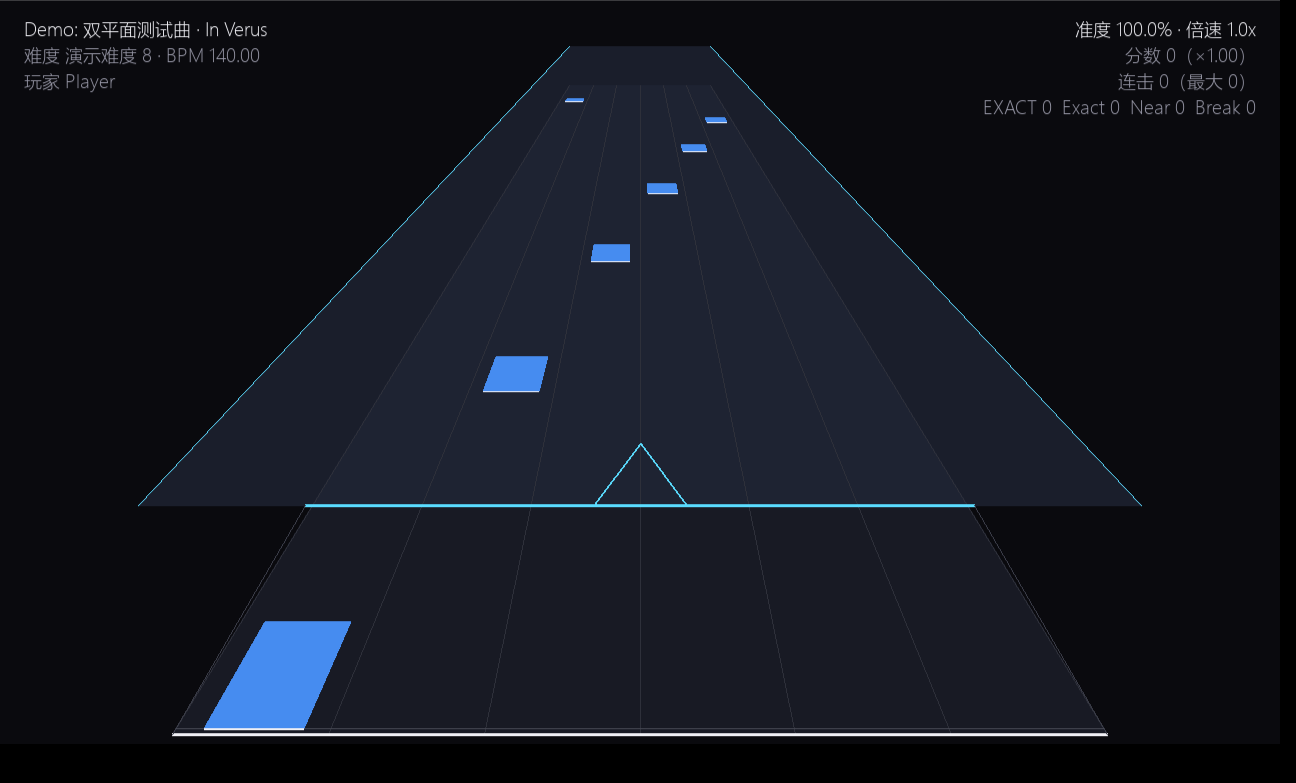
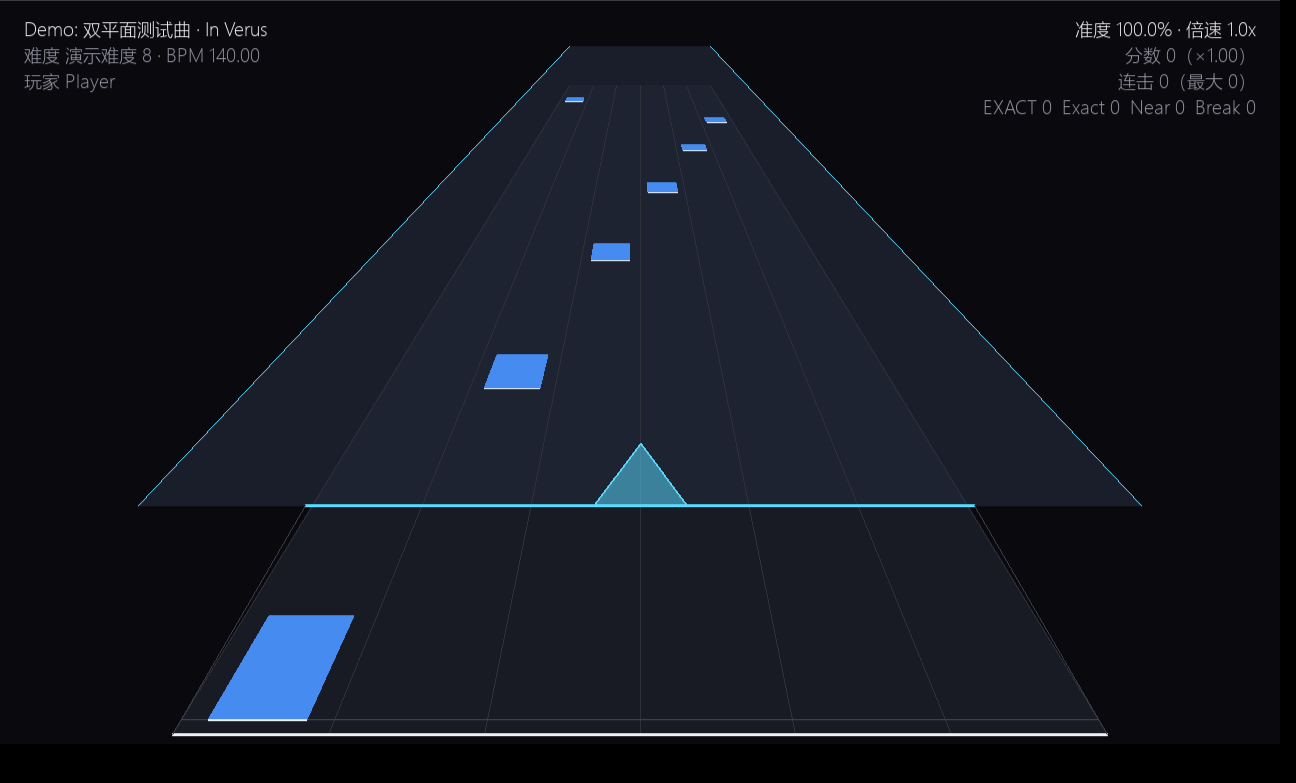
feat(player): 鼠标指针规则 - 无界永远半透明实心；关闭时界内实心、出界则判定位置实心 + 实际位置只画边线

diff --git a/src/rhythm_editor/game/app.py b/src/rhythm_editor/game/app.py
@@ -166,6 +166,7 @@ class PlayerApp:
         self.popups: List[Tuple[str, str, float]] = []   # (等级, 文字, 剩余秒数)
         self.pressed_lanes = set()
         self.mouse_norm = 0.5
+        self.mouse_raw = 0.5               # 鼠标实际位置（关闭无界鼠标时可能出界）
         self.message = ""
         self.status_hint = ""
         self.settings_row = 0
@@ -1220,6 +1221,7 @@ class PlayerApp:
         )
         raw = (mx - left) / max(1.0, right - left)
         value = 0.5 + (raw - 0.5) * self.settings.mouse_sensitivity
+        self.mouse_raw = value            # 实际位置（可能出界，用于画“边线”指针）
         if not self.settings.unbounded_mouse:
             value = min(1.0, max(0.0, value))
         return value
@@ -1738,18 +1740,39 @@ class PlayerApp:
                 (255, 60, 50),
             )
 
-    def _draw_mouse_marker(self) -> None:
-        """鼠标判定线后方的三角形标识：**躺在鼠标平面内**（矮胖、只画边线）。"""
-        x = MOUSE_LEFT + self.mouse_norm * MOUSE_LEGAL_WIDTH
+    def _mouse_marker_points(self, norm_x: float):
+        """指针三角形的三个点（躺在鼠标平面内、矮胖）。"""
+        x = MOUSE_LEFT + norm_x * MOUSE_LEGAL_WIDTH
         length = 0.26                      # 沿 z 的长度（矮）
         half_w = 0.07                      # 横向半宽（胖）
-        tip = self._proj(x, MOUSE_PLANE_HEIGHT, length)
-        left = self._proj(x - half_w, MOUSE_PLANE_HEIGHT, 0.0)
-        right = self._proj(x + half_w, MOUSE_PLANE_HEIGHT, 0.0)
-        pygame.draw.polygon(
-            self.screen, MOUSE_TINT,
-            [(tip[0], tip[1]), (left[0], left[1]), (right[0], right[1])], 2,
+        return (
+            self._proj(x, MOUSE_PLANE_HEIGHT, length),
+            self._proj(x - half_w, MOUSE_PLANE_HEIGHT, 0.0),
+            self._proj(x + half_w, MOUSE_PLANE_HEIGHT, 0.0),
         )
+
+    def _draw_marker_shape(self, points, filled: bool) -> None:
+        """画一个指针三角形：``filled`` 时是**半透明实心**，否则只画边线。"""
+        if filled:
+            self._alpha_quad(list(points), MOUSE_TINT, 130)
+        pygame.draw.polygon(
+            self.screen, MOUSE_TINT, [(p[0], p[1]) for p in points], 2
+        )
+
+    def _draw_mouse_marker(self) -> None:
+        """鼠标指针画法。
+
+        * 开启**无界鼠标**：永远按实际位置画半透明实心；
+        * 关闭且鼠标在合法区内：判定位置 = 实际位置，画半透明实心；
+        * 关闭且鼠标出界：**判定位置**（夹在边界上）画实心，
+          **实际位置**只画边线，两者都能看到。
+        """
+        inside = 0.0 <= self.mouse_raw <= 1.0
+        # 判定位置永远是半透明实心
+        self._draw_marker_shape(self._mouse_marker_points(self.mouse_norm), filled=True)
+        if not self.settings.unbounded_mouse and not inside:
+            # 出界时把**实际位置**也用边线标出来
+            self._draw_marker_shape(self._mouse_marker_points(self.mouse_raw), filled=False)
 
     def _draw_popups(self) -> None:
         """判定飘字：在**被判定的物件处**向上飘并淡出。"""

diff --git a/tests/test_game_app.py b/tests/test_game_app.py
@@ -739,6 +739,58 @@ class PlayerAppSmokeTests(unittest.TestCase):
             app._draw()                       # 换模式后还能画
         self.assertEqual(seen, ["borderless", "fullscreen", "windowed", "borderless"])
 
+    def test_mouse_marker_fill_rules(self) -> None:
+        """无界：永远实心；关闭：界内实心、出界时判定位置实心 + 实际位置只画边线。"""
+        from rhythm_editor.game.app import MOUSE_LEGAL_WIDTH, MOUSE_LEFT
+
+        app = self.app
+        app._enter_loading()
+        app._start_play()
+        fills = []
+        xs = []
+        original_alpha, original_proj = app._alpha_quad, app._proj
+        app._alpha_quad = lambda points, color, alpha: fills.append(alpha)
+
+        def spy(x, y, z):
+            xs.append(x)
+            return original_proj(x, y, z)
+
+        app._proj = spy
+
+        def norm_of(world_x: float) -> float:
+            return (world_x - MOUSE_LEFT) / MOUSE_LEGAL_WIDTH
+
+        try:
+            def draw_and_reset():
+                fills.clear()
+                xs.clear()
+                app._draw_mouse_marker()
+                return [norm_of(x) for x in xs]
+
+            # 1) 开启无界鼠标：出界的实际位置也画实心
+            app.settings.unbounded_mouse = True
+            app.mouse_norm, app.mouse_raw = 1.35, 1.35
+            drawn = draw_and_reset()
+            self.assertEqual(len(fills), 1, "无界鼠标永远实心")
+            self.assertAlmostEqual(drawn[0], 1.35, delta=1e-6, msg="指针尖在鼠标实际位置")
+
+            # 2) 关闭无界 + 界内：只有判定位置（=实际位置）画实心
+            app.settings.unbounded_mouse = False
+            app.mouse_norm, app.mouse_raw = 0.4, 0.4
+            drawn = draw_and_reset()
+            self.assertEqual(len(fills), 1)
+            self.assertAlmostEqual(drawn[0], 0.4, delta=1e-6)
+
+            # 3) 关闭无界 + 出界：判定位置（夹到 1.0）实心，实际位置（1.3）只画边线
+            app.mouse_norm, app.mouse_raw = 1.0, 1.3
+            drawn = draw_and_reset()
+            self.assertEqual(len(fills), 1, "只有判定位置是实心")
+            self.assertEqual(len(drawn), 6, "判定位置 + 实际位置各一个三角形")
+            self.assertAlmostEqual(drawn[0], 1.0, delta=1e-6, msg="判定位置夹在边界上")
+            self.assertAlmostEqual(drawn[3], 1.3, delta=1e-6, msg="实际位置也画出来")
+        finally:
+            app._alpha_quad, app._proj = original_alpha, original_proj
+
 
 if __name__ == "__main__":
     unittest.main()

diff --git a/docs/VERIFICATION.md b/docs/VERIFICATION.md
@@ -113,7 +113,7 @@ python tools/check_audio.py
 
 | 项目 | 命令 | 结果 |
 | --- | --- | --- |
-| 单元测试（含 Tk 画布冒烟测试、应用级测试与游玩器测试） | `python -m unittest discover -s tests -t .` | Ran 324 tests — **OK** |
+| 单元测试（含 Tk 画布冒烟测试、应用级测试与游玩器测试） | `python -m unittest discover -s tests -t .` | Ran 325 tests — **OK** |
 | 需求验收清单 | `python tools/acceptance.py` | 18 项全部 `[OK ]`，结论：全部通过（含游玩器 4 项） |
 | 音频后端 | `python tools/check_audio.py` | 9 项全部 `[OK ]`（pygame.mixer 真实播放，延迟补偿正确） |
 | 示例谱面生成 | `python run_editor.py --make-demo` | 生成 `charts/demo/demo.json`（6K 32 / 区域 3 / 滑键 6 / 点击按键 4 / 4 个速度组） |
@@ -212,7 +212,7 @@ python tools/check_audio.py
 | `tests/test_game_judge.py`（26 条） | 游玩器判定：EXACT/Exact/Near/Break 窗口、空敲无惩罚、一次按键只判一个、**输入类型必须匹配（6K 键只判 6K、鼠标点击只判鼠标点击按键）**、滑键吸附最好等级、空域半拍区间、长按“抬起事件 + 末 50ms 宽限（跨区间）”、多轨长按“所有行同时抬起才算抬起”、准度与分数公式、分数 × 倍速^1.5、连击与最大连击 |
 | `tests/test_game_scene.py`（9 条） | 游玩器 3D 布局：1 单位 = 鼠标合法区宽 = 6K 中间四轨；鼠标平面高 0.4；两条判定线位置；近大远小；起点在屏幕上方；**游玩区铺满窗口（竖直 ≥85%、水平居中、换尺寸重算）** |
 | `tests/test_game_settings.py`（9 条） | 游玩器设置：默认键位、范围夹取、**流速 ↔ 可视毫秒（1500/n）与老 `scroll_ms` 迁移**、键位补齐、全局读写与损坏回退、最近打开列表去重与上限、渲染后端设置（含非法值回退） |
-| `tests/test_game_app.py`（32 条） | 游玩器 GUI 冒烟（headless）：主界面 → 加载 → 游玩 → 结算、鼠标映射、设置全局保存、轨道高亮与判定飘字、音量与暂停、谱面列表元数据与最近打开、渲染后端切换与回退、倍速（含上限 3x 与分数 ×3^1.5）、charts/ “每个含 json 的文件夹算一张谱面”、没有谱面时也能进设置、打开其他路径的 JSON、判定时刻过去的物件不再绘制、首拍 1.5 秒引导且音乐同步、文本输入走 TEXTINPUT / 键位按键捕获、鼠标可操作主界面 / 设置 / 结算、轨道键优先于界面快捷键（空格 = 第 6 轨）、GL 呈现异常时自动回退软件渲染、`--software` 命令行强制后端、流速行 − ● +、四种物件厚度互相独立、结算页 1/3 + 2/3、窗口尺寸变化不重建显示表面 + F10 / F11、远于可视范围的物件不绘制、每帧 poll 音频后端、短暂无声不立刻结束、**远白线更细（透视缩放）**、**判定字符出现在被判定的物件处（含瞬时物件）**、**滑键朝向侧更厚更实且无白线 + 鼠标点击按键线全红 + 鼠标指针躺在鼠标平面内且矮胖**、**结算最大连击 x / 总数 + 得分倍率**、**F11 循环 窗口 / 无边框全屏 / 独占全屏** |
+| `tests/test_game_app.py`（33 条） | 游玩器 GUI 冒烟（headless）：主界面 → 加载 → 游玩 → 结算、鼠标映射、设置全局保存、轨道高亮与判定飘字、音量与暂停、谱面列表元数据与最近打开、渲染后端切换与回退、倍速（含上限 3x 与分数 ×3^1.5）、charts/ “每个含 json 的文件夹算一张谱面”、没有谱面时也能进设置、打开其他路径的 JSON、判定时刻过去的物件不再绘制、首拍 1.5 秒引导且音乐同步、文本输入走 TEXTINPUT / 键位按键捕获、鼠标可操作主界面 / 设置 / 结算、轨道键优先于界面快捷键（空格 = 第 6 轨）、GL 呈现异常时自动回退软件渲染、`--software` 命令行强制后端、流速行 − ● +、四种物件厚度互相独立、结算页 1/3 + 2/3、窗口尺寸变化不重建显示表面 + F10 / F11、远于可视范围的物件不绘制、每帧 poll 音频后端、短暂无声不立刻结束、远白线更细（透视缩放）、判定字符出现在被判定的物件处（含瞬时物件）、滑键朝向侧更厚更实且无白线 + 鼠标点击按键线全红 + 鼠标指针躺在鼠标平面内且矮胖、结算最大连击 x / 总数 + 得分倍率、F11 循环 窗口 / 无边框全屏 / 独占全屏、**鼠标指针实心 / 边线规则（无界永远实心；关闭时界内实心、出界则判定位置实心 + 实际位置边线）** |
 
 | 低倍速实测（真实音频，跑真机 20 秒） | 0.5x / 0.1x 下逐帧 `_update` + `audio.poll()` | 0.5x：真实 20s → 歌曲 9.76s、`playing=True` 全程；0.1x：真实 12s → 歌曲 1.15s、`playing=True`；修复前只播完第一段窗口就停 |
 | 慢放接力实测（真实音频） | 0.5x 跑 20 秒并记录 `Channel.get_sound()` 顺序 | 交出 `(0,4000)(4000,8000)(8000,12000)(12000,16000)`，实播 `(0,4000)@0s → (4000,8000)@8.04s → (8000,12000)@16.03s`，**没有被顶掉的窗口** |

diff --git a/CHANGELOG.md b/CHANGELOG.md
@@ -1,5 +1,17 @@
 # 更新日志
 
+## 0.3.11 — 鼠标指针的实心 / 边线规则
+
+* 鼠标指针（躺在鼠标平面内的矮胖三角形）改成：
+  * **开启无界鼠标**：永远按实际位置画 **半透明实心**；
+  * **关闭无界鼠标、鼠标在合法区内**：判定位置 = 实际位置，画半透明实心；
+  * **关闭无界鼠标、鼠标出界**：**判定位置**（夹在边界上）画半透明实心，
+    同时把**实际位置**用**边线**画出来——出界多少一眼就能看到。
+* 实现上把屏幕鼠标位置分成 `mouse_raw`（实际）与 `mouse_norm`（判定，出界时夹到 0~1），
+  实心用半透明填充 + 同色细边线，边线版只有描边。
+* 回归测试覆盖三种情形：无界→1 个实心；界内→1 个实心；出界→1 个实心（边界处）
+  + 1 个边线（实际位置）。
+
 ## 0.3.10 — 透视线宽 / 结算与结束流程 / 物件外观 / 无边框全屏
 
 ### 3D 呈现
